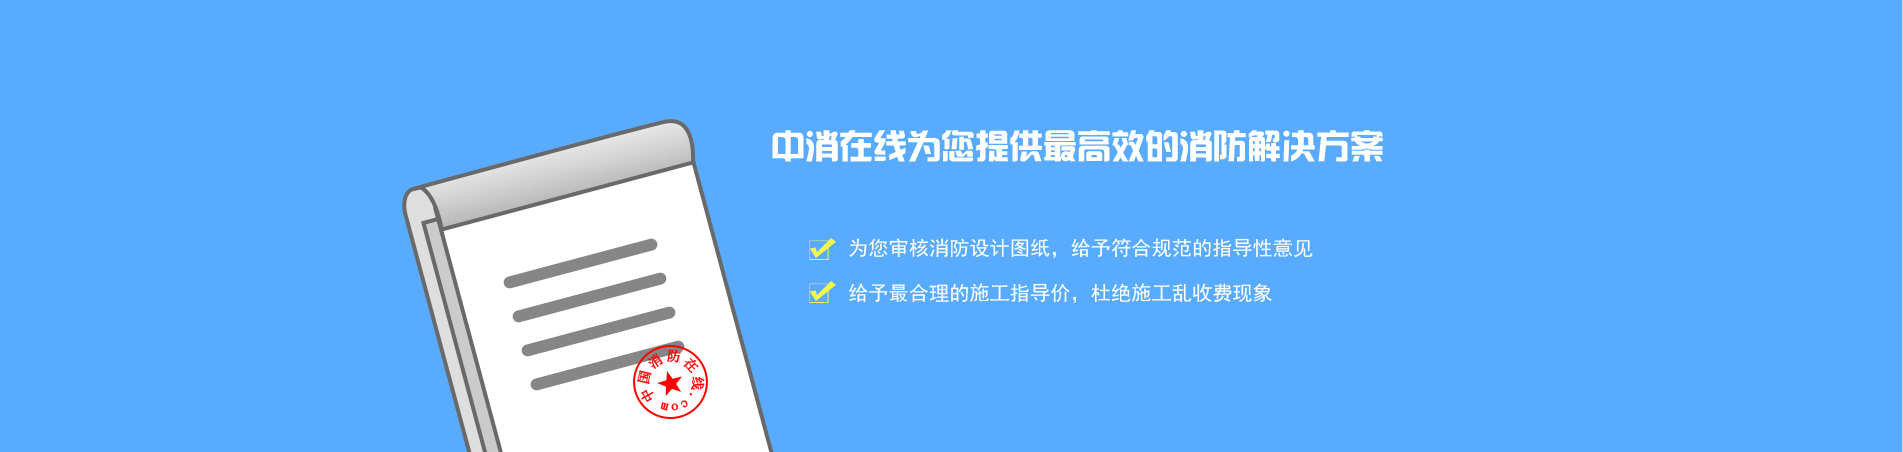
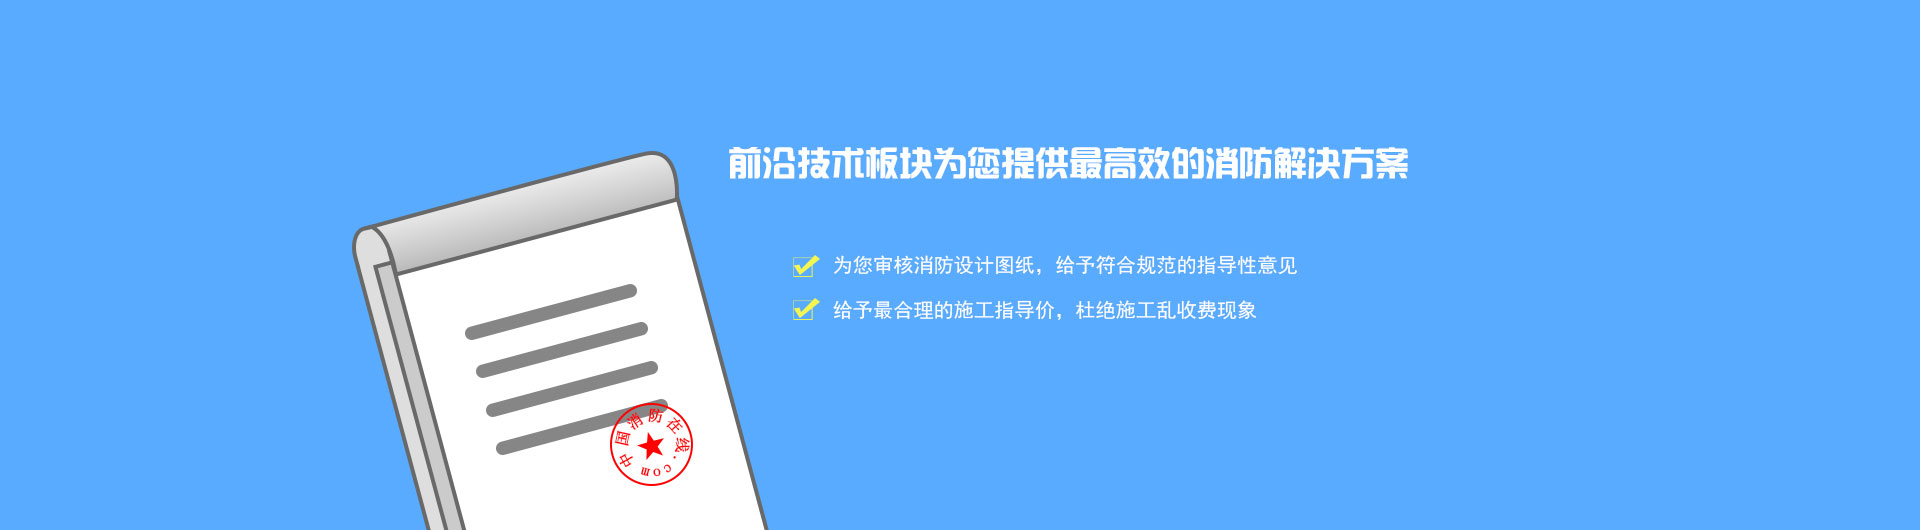
首页更新
图片上传  首页footer添加

Changed region(s): [[0.186, 0.2478, 0.7441, 1.0], [0.279, 0.3097, 0.31, 0.3407]]

diff --git a/page/index.html b/page/index.html
@@ -40,36 +40,62 @@
 </nav>
 <nav id="secondary-header" class="navbar" role="navigation">
 	<div class="container">
+		<!-- Brand and toggle get grouped for better mobile display -->
 		<ul class="nav navbar-nav">
 			<li><a href="http://www.zxzx119.com">首页</a></li>
 			<li><a href="http://www.zxzx119.com/article-news-1.html">热点新闻</a></li>
 			<li><a href="http://www.zxzx119.com/article-wiki-1.html">政策法规</a></li>
 			<li><a href="http://www.zxzx119.com/article-knowall-1.html">消防百科</a></li>
 			<li><a href="http://www.zxzx119.com/article-supervision-1.html">监督举报</a></li>
-			<li><a href="http://d.zxzx119.com">企业名录</a></li>
+			<li><a href="http://d.zxzx119.com/">企业名录</a></li>
+			<li><a href="http://e.zxzx119.com/">前沿技术</a></li>
 			<li><a href="http://www.zxzx119.com/article-onlineEdu-1.html">教育培训</a></li>
 			<li><a href="http://www.zxzx119.com/article-savezx-1.html">中消救援</a></li>
+			<li><a href="http://www.zxzx119.com/20170515/804.html">紧急呼叫119</a></li>
 		</ul>
 	</div>
 </nav>
-<div class="big-img">
-	<a class="btn-upload" href="javascript:void(0);">上传图纸</a>
+<div class="big-img banner-bg" style="background-image: url(../img/front-tech-bigimg.jpg);">
+	<a class="btn-upload" href="${ctxPath}/project/add">上传图纸</a>
 </div>
 <div class="container">
 	<div class="ask-box">
 		<p>建筑工程装修、消防验收、消防施工过程中，您是否遇到过以下问题呢？</p>
-		<i class="tech-arrow"></i>
+		<i class="tech-arrow" style="background-image: url(../img/front-tech-arrow.jpg" );
+		"></i>
 	</div>
-	<ul class="problem-list row">
-		<li class="col-sm-6 col-md-4"><img src="../img/front-tech-img1.jpg" alt=""><span>对消防办理流程不了解</span></li>
-		<li class="col-sm-6 col-md-4"><img src="../img/front-tech-img2.jpg" alt=""><span>找不到专业人员</span></li>
-		<li class="col-sm-6 col-md-4"><img src="../img/front-tech-img3.jpg" alt=""><span>报备材料准备不充分</span></li>
-		<li class="col-sm-6 col-md-4"><img src="../img/front-tech-img4.jpg" alt=""><span>消防设计图纸不合规</span></li>
-		<li class="col-sm-6 col-md-4"><img src="../img/front-tech-img5.jpg" alt=""><span>施工乱收费现象</span></li>
-		<li class="col-sm-6 col-md-4"><img src="../img/front-tech-img6.jpg" alt=""><a class="btn-reg" href="javascript: void(0);"></a><span>为您提供高效的消防解决方案</span></li>
+	<ul class="problem-list row list-unstyled">
+		<li class="col-sm-6 col-md-4 "><img src="../img/front-tech-img1.jpg " alt=" "><span>对消防办理流程不了解</span>
+		</li>
+		<li class="col-sm-6 col-md-4 "><img src="../img/front-tech-img2.jpg " alt=" "><span>找不到专业人员</span>
+		</li>
+		<li class="col-sm-6 col-md-4 "><img src="../img/front-tech-img3.jpg " alt=" "><span>报备材料准备不充分</span>
+		</li>
+		<li class="col-sm-6 col-md-4 "><img src="../img/front-tech-img4.jpg " alt=" "><span>消防设计图纸不合规</span>
+		</li>
+		<li class="col-sm-6 col-md-4 "><img src="../img/front-tech-img5.jpg " alt=" "><span>施工乱收费现象</span>
+		</li>
+		<li class="col-sm-6 col-md-4 "><img src="../img/front-tech-img6.jpg " alt=" ">
+			<a class="btn-reg " href="${ctxPath}/account/register "></a>
+			<span>为您提供高效的消防解决方案</span>
+		</li>
 	</ul>
 </div>
-
+<div id="index-footer">
+	<div class="container ">
+		<div class="contact-way row ">
+			<div class="col-sm-8 col-md-6 ">
+				<i class="fa fa-phone "></i>服务热线: 400-1919-119 <br>
+				&nbsp;&nbsp;&nbsp;&nbsp;（周一至周五9:00-17:00，节假日顺延) <br>
+				<i class="fa fa-envelope "></i>邮箱：4001919119@zxzx119.com
+			</div>
+			<div class="col-sm-4 col-md-6 text-center ">
+				<img src="../img/QRcode.png " alt=" " class="img-responsive center-block ">
+				扫码关注订阅号
+			</div>
+		</div>
+	</div>
+</div>
 <!-- jQuery -->
 <script src="../js/jquery-1.11.3.js"></script>
 <!-- Bootstrap JavaScript -->
